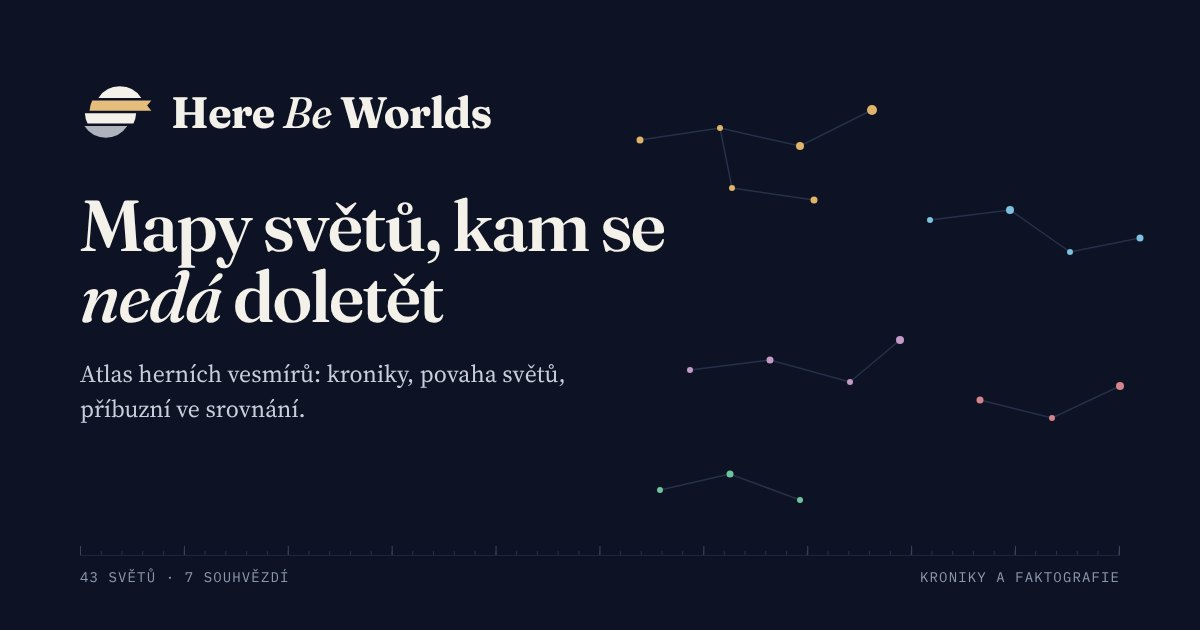
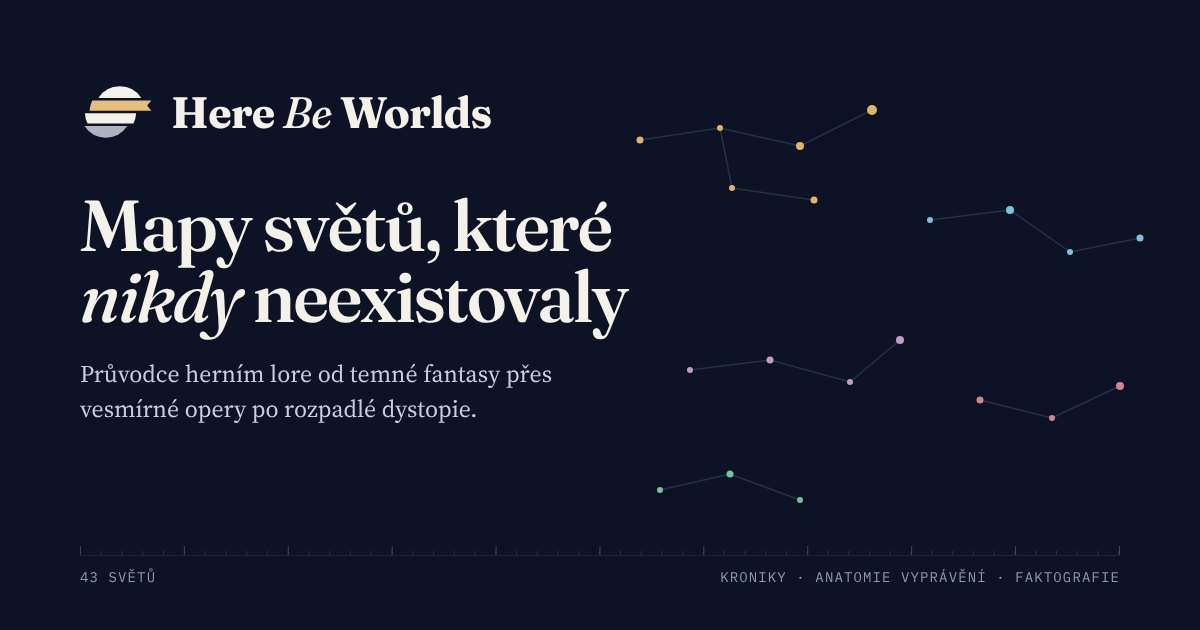
titulni strana: nove heslo a uvod, vic popsanych hvezd, patka bez zdroju
- heslo „Mapy světů, které nikdy neexistovaly“, nová úvodní věta (cs i en)
- v každém souhvězdí dva až tři popsané světy pod hvězdami, větší názvy souhvězdí
- z patičky pryč prázdný odkaz „Zdroje a kánon“
- obecná karta pro sdílení s novým heslem

Claude-Session: https://claude.ai/code/session_01B7obWPJG5ydjAhQo1XjBpq

diff --git a/src/components/discovery/HomeIntro.tsx b/src/components/discovery/HomeIntro.tsx
@@ -37,21 +37,33 @@ const SKY_NAME: Record<string, string> = {
   metaphysical: 'home2.skyMetaphysical',
 };
 
-/** Jedna trvale popsaná hvězda v každém souhvězdí. */
-const ICONIC: Record<string, string> = {
-  fantasy: 'dark-souls',
-  'science-fiction': 'mass-effect',
-  'post-apocalypse': 'fallout',
-  horror: 'silent-hill',
-  historical: 'disco-elysium',
-  dystopia: 'cyberpunk-2077',
-  metaphysical: 'outer-wilds',
+/**
+ * Trvale popsané hvězdy: světy, které čtenář pozná nejspíš (velká souhvězdí tři, malá dvě).
+ * Ostatní jména se ukážou po najetí na hvězdu nebo na název souhvězdí.
+ */
+const ICONIC: Record<string, string[]> = {
+  fantasy: ['the-witcher', 'dark-souls', 'elder-scrolls'],
+  'science-fiction': ['mass-effect', 'halo', 'starcraft'],
+  'post-apocalypse': ['fallout', 'metro'],
+  horror: ['silent-hill', 'resident-evil'],
+  historical: ['disco-elysium', 'assassins-creed'],
+  dystopia: ['cyberpunk-2077', 'bioshock'],
+  metaphysical: ['outer-wilds', 'control'],
 };
+
+/** Pozice popsaných hvězd v souhvězdí (cik-cak, aby jména pod hvězdami nesousedila). */
+function namedSlots(count: number, perRow: number, named: number): number[] {
+  const zigzag = [perRow - 1, perRow, 3 * perRow - 1, 2 * perRow + 1];
+  const slots = zigzag.filter((slot) => slot < count).slice(0, named);
+  if (slots.length < named && count > 0) {
+    for (let k = 0; k < count && slots.length < named; k += 2) if (!slots.includes(k)) slots.push(k);
+  }
+  return slots;
+}
 
 /*
  * Obloha v souřadnicích 1000 × H. Souhvězdí mají pevné počátky a 80jednotkový krok hvězd.
- * Popsaná hvězda stojí na konci první řady, vpravo od ní je volno až k dalšímu souhvězdí,
- * takže se popisky nepřekrývají. Ostatní názvy se ukážou po najetí myší nebo fokusu.
+ * Jména popsaných hvězd stojí pod hvězdou, stejně jako při rozsvíceném souhvězdí.
  * Při růstu atlasu: horní pás snese 4–5 řad (cca 15 světů v souhvězdí), pak upravit počátky.
  */
 const ORIGINS: Array<[number, number, number]> = [
@@ -77,18 +89,26 @@ function buildSky(worlds: World[], chapters: ChapterCardData[]) {
   let maxY = 0;
   chapters.forEach((chapter, gi) => {
     const [ox, oy, perRow] = ORIGINS[gi] ?? [20 + (gi % 3) * 330, 50 + Math.floor(gi / 3) * 240, 3];
-    let items = worlds.filter((w) => w.chapterId === chapter.id).sort((a, b) => a.number - b.number);
-    if (!items.length) return;
-    const iconic = items.find((w) => w.id === ICONIC[chapter.id]) ?? items[0];
-    items = items.filter((w) => w !== iconic);
-    items.splice(Math.min(perRow, items.length + 1) - 1, 0, iconic);
-    groups.push({ chapterId: chapter.id, x: ox, y: oy - 30, count: items.length });
+    const all = worlds.filter((w) => w.chapterId === chapter.id).sort((a, b) => a.number - b.number);
+    if (!all.length) return;
+    const wanted = (ICONIC[chapter.id] ?? [])
+      .map((id) => all.find((w) => w.id === id))
+      .filter((w): w is World => Boolean(w));
+    const slots = namedSlots(all.length, perRow, wanted.length);
+    const iconic = wanted.slice(0, slots.length);
+    const rest = all.filter((w) => !iconic.includes(w));
+    const items: World[] = [];
+    for (let k = 0, r = 0; k < all.length; k += 1) {
+      const slotIndex = slots.indexOf(k);
+      items.push(slotIndex >= 0 ? iconic[slotIndex] : rest[r++]);
+    }
+    groups.push({ chapterId: chapter.id, x: ox, y: oy - 44, count: all.length });
     let prev: [number, number] | null = null;
     items.forEach((w, k) => {
       const seed = gi * 13 + k * 7;
       const x = ox + (k % perRow) * STEP_X + ((seed * 37) % 9) - 4;
       const y = oy + Math.floor(k / perRow) * STEP_Y + ((seed * 53) % 13) - 6;
-      const named = w === iconic;
+      const named = iconic.includes(w);
       stars.push({ id: w.id, title: w.gameTitle.cs ?? w.gameTitle.en, named, x, y, size: named ? 10 : [4, 6, 7][(seed * 17) % 3], chapterId: chapter.id });
       if (prev) {
         const dx = x - prev[0];

diff --git a/src/lib/i18n.ts b/src/lib/i18n.ts
@@ -27,8 +27,8 @@ export const ui: Record<Locale, UiTree> = {
     },
     home2: {
       kicker: '{n} · kroniky · anatomie vyprávění · faktografie',
-      title: 'Mapy světů, kam se |nedá| doletět',
-      lead: 'Průvodce herním lore pro ty, kterým nestačí „prostě fantasy“. Ke každému světu zmapované dějiny, rozbor vyprávění a profil, podle kterého ho porovnáš s kterýmkoli jiným.',
+      title: 'Mapy světů, které |nikdy| neexistovaly',
+      lead: 'Průvodce herním lore od temné fantasy přes vesmírné opery po rozpadlé dystopie. U každého probádaného světa najdeš dějiny od prvotního hříchu, skrytou strukturu vyprávění i to, co různé vesmíry spojuje.',
       openAtlas: 'Otevřít atlas',
       random: 'Náhodný svět',
       skyAria: 'Obloha světů: každá hvězda je jeden svět, souhvězdí jsou archetypy',
@@ -394,8 +394,8 @@ Berte prosím tento atlas jako skromnou poctu všem scenáristům, designérům 
     },
     home2: {
       kicker: '{n} · chronicles · narrative anatomy · factography',
-      title: 'Maps of worlds |beyond| reach',
-      lead: 'A guide to game lore for anyone who isn’t satisfied with “just fantasy”. For every world, a mapped history, a reading of how it tells its story and a profile to set it against any other.',
+      title: 'Maps of worlds that |never| existed',
+      lead: 'A guide to game lore, from dark fantasy through space operas to crumbling dystopias. For every world we explore you’ll find its history from the original sin, the hidden structure of its storytelling and what connects it to other universes.',
       openAtlas: 'Open the atlas',
       random: 'Random world',
       skyAria: 'Sky of worlds: every star is one world, constellations are archetypes',

diff --git a/src/components/i18n/SiteFooter.tsx b/src/components/i18n/SiteFooter.tsx
@@ -13,18 +13,6 @@ const FOOTER_CHAPTER_COLUMNS = [
   ['historical', 'dystopia', 'metaphysical'],
 ] as const;
 
-function Placeholder({ children }: { children: string }) {
-  return (
-    <a
-      href="#footer"
-      className="site-footer__link site-footer__link--soon"
-      onClick={(e) => e.preventDefault()}
-    >
-      {children}
-    </a>
-  );
-}
-
 export default function SiteFooter({ base }: Props) {
   const locale = useLocale();
 
@@ -82,7 +70,6 @@ export default function SiteFooter({ base }: Props) {
           <a className="site-footer__link" href={withBase(base, '/anatomie-herniho-lore/')}>
             {uiT('footer.essay', locale)}
           </a>
-          <Placeholder>{uiT('footer.sources', locale)}</Placeholder>
           <a className="site-footer__link" href={withBase(base, '/contact/')}>
             {uiT('footer.contact', locale)}
           </a>

diff --git a/src/styles/home-page.css b/src/styles/home-page.css
@@ -200,7 +200,7 @@
   padding: 0.3rem 0.5rem 0.3rem 0;
   transform: translateY(-0.3rem);
   font-family: var(--font-mono);
-  font-size: 0.75rem;
+  font-size: 0.875rem;
   font-weight: 500;
   letter-spacing: 0.14em;
   text-transform: uppercase;
@@ -284,10 +284,6 @@
   transition: opacity 0.15s ease;
 }
 
-.hp-star.is-named .hp-star__name {
-  opacity: 1;
-  background: transparent;
-}
 
 .hp-star:hover,
 .hp-star:focus-visible {
@@ -311,7 +307,8 @@
   text-underline-offset: 0.2em;
 }
 
-/* Rozsvícené souhvězdí: jména všech světů pod hvězdami, aby se nepřekrývala se sousedy. */
+/* Popsané hvězdy a rozsvícené souhvězdí: jména pod hvězdami, aby se nepřekrývala se sousedy. */
+.hp-star.is-named .hp-star__name,
 .hp-star.is-lit .hp-star__name {
   position: absolute;
   top: calc(var(--s) + 0.35rem);

diff --git a/CLAUDE.md b/CLAUDE.md
@@ -12,7 +12,7 @@ Tento soubor je zdroj pravdy pro AI. Interní identifikátory v kódu se nepřek
 - **Jazyk:** `cs` výchozí, `en` sekundární. UI řetězce: `src/lib/i18n.ts` (`uiT`). Obsah světů: `{ en, cs? }` v JSON (`t()`). Kroniky: české markdown.
 - **Estetika (finální styl „noční atlas“, 2026-11):** light = teplý papír `#F4F2EE` a tuš, dark = noční modř `#0D1324`; hlavička, noční pás titulní strany a patička jsou vždy noční. Jeden ultramarínový akcent (`--color-accent`, dark `#9DB0FF`) pro odkazy a akce, leží mimo barvy archetypů. Barva archetypu (light/dark z `chapters.json`, v CSS `--hue`) jen pro záložky, silné linky, profil os a štítky. Písma: **Fraunces** (nadpisy, názvy světů, jádra, citáty; `--font-display`), **Source Serif 4** (dlouhé texty; `--font-text`), **Public Sans** (rozhraní; `--font-sans`), **IBM Plex Mono** (štítky a čísla; `--font-mono`). Bez zaoblených „pilulek“ a stínových rámů; oddíly dělí linky a vzduch. Motiv řídí systém čtenáře, dokud si nevybere sám (`hbw_theme`). Žádný herní UI jazyk.
 - **Znak a nápis:** kotouč světa rozložený na čtyři vodorovné vrstvy rozjeté do schodů (vyprávění, historie, klasifikace, mapa); sklon / stejný jako kurzíva „Be“ (`src/components/i18n/BrandMark.tsx`, cesty `MARK_PATHS`, výřez `MARK_VIEWBOX` 4 : 3, `size` = výška). Vrstvy shora: bílá `--mark-light` `#F4F1EA`, zlatá rozsvícená `--mark-glow` `#E5BE7E`, bílá, šedý stín `--mark-shade` `#AEB3BE`. Zlatá vrstva je druhá shora (nikdy nahoře jako čepička), vysunutá doprava za kotouč a zakončená vykrojením jako štítek; přesah jen na jednu stranu (souměrný pruh přes kotouč = londýnské metro). Nápis `Wordmark`: Fraunces 700, „Be“ kurzívou 500. Na webu je rozsvícená vrstva **vždy zlatá**; barvu archetypu nese jen na kartách světů pro sdílení. Ikony: `public/favicon.svg` (znak v nočním čtverci, rx 14), `favicon.ico` (16/32/48), `apple-touch-icon.png` (180 px).
-- **Karty pro sdílení (Open Graph 1200 × 630):** `public/og/site.jpg` (noční, obloha, „Mapy světů, kam se *nedá* doletět“) a `public/og/worlds/<id>.jpg` (papír, záložka žánru v barvě archetypu, vpravo nahoře jen název archetypu; slovo „Spis“ na kartách nepoužívat). Generuje `npm run og` (`scripts/og-images.mjs`, potřebuje Playwright s Chromiem) a **commitují se**; písma bere z Google Fonts — kde nejsou dostupná (cloud), podstrč `HBW_OG_FONT_CSS` s @font-face z `@fontsource-variable/fraunces` (soubory **full**, jinak kurzíva dostane „wonky“ tvary), `@fontsource-variable/source-serif-4` (opsz) a `@fontsource/ibm-plex-mono` a výsledek porovnej se starou kartou; při buildu se negenerují. Po přidání či úpravě světa spusť `npm run og` — test `src/lib/og-cards.test.ts` hlídá, že žádný publikovaný svět nemá kartu chybějící. `BaseLayout` bere `ogImage` (výchozí `/og/site.jpg`, drafty ji dostanou také) a skládá absolutní URL z `site` (`HBW_SITE`, default `https://lucrecius04.github.io`).
+- **Karty pro sdílení (Open Graph 1200 × 630):** `public/og/site.jpg` (noční, obloha, „Mapy světů, které *nikdy* neexistovaly“) a `public/og/worlds/<id>.jpg` (papír, záložka žánru v barvě archetypu, vpravo nahoře jen název archetypu; slovo „Spis“ na kartách nepoužívat). Generuje `npm run og` (`scripts/og-images.mjs`, potřebuje Playwright s Chromiem) a **commitují se**; písma bere z Google Fonts — kde nejsou dostupná (cloud), podstrč `HBW_OG_FONT_CSS` s @font-face z `@fontsource-variable/fraunces` (soubory **full**, jinak kurzíva dostane „wonky“ tvary), `@fontsource-variable/source-serif-4` (opsz) a `@fontsource/ibm-plex-mono` a výsledek porovnej se starou kartou; při buildu se negenerují. Po přidání či úpravě světa spusť `npm run og` — test `src/lib/og-cards.test.ts` hlídá, že žádný publikovaný svět nemá kartu chybějící. `BaseLayout` bere `ogImage` (výchozí `/og/site.jpg`, drafty ji dostanou také) a skládá absolutní URL z `site` (`HBW_SITE`, default `https://lucrecius04.github.io`).
 - **Stack:** Astro 7 + React islands (`client:load`), statický export. Node ≥ 20.
 - **GitHub Pages:** `astro.config.mjs` `base` = `HBW_BASE` (default `/Here-Be-Worlds`). Interní odkazy **vždy** `withBase()` z `src/lib/base-url.ts`.
 - **Vizuál:** používej CSS proměnné v `src/styles/tokens.css` (`--color-accent`, `--color-paper`, `--color-line`, …). Do obecného UI nehardcoduj cizí hex. Slotové barvy srovnávače žijí jen ve `src/lib/compare.ts` / `compare.css`.
@@ -63,7 +63,7 @@ Kroniky a eseje **nejsou** v `data/`.
 
 | Routa | Soubor | Hlavní komponenty |
 |---|---|---|
-| `/` | `src/pages/index.astro` | `HomeIntro` — noční pás s oblohou 43 hvězd (7 souhvězdí = archetypy; v každém trvale popsaná jedna nejznámější hvězda `ICONIC`, ostatní po najetí; najetí na název souhvězdí rozsvítí jména všech jeho světů a ztlumí ostatní, klik skočí na `#rejstrik-<id>`; na úzkém/dotykovém displeji obloha bez jmen a pod ní řádek archetypů do rejstříku; dole jemné měřítko a „Nově zmapováno“). Hlavička na titulní straně splývá s nocí, po posunu ji oddělí linka (`is-scrolled` v `SiteHeader`). `ReaderDesk` (jen jeden řádek s rozečtenou kronikou), **Svět dne** (archetyp · profil archetypu, pruh os) + **Hádanka dne** (`DailyMystery`), Rejstřík světů (záložka „Archetyp · počet“ je odkaz na archetyp, `id=rejstrik-<id>`), kompas „Který svět je tvůj?“ (`WorldCompass alwaysOpen`), Tři cesty, esej + stezky. Svět dne i hádanka se skládají samy z dat (`calendar.ts`): promíchané pořadí po cyklech (`featuredWorldIndex`), hádanka je o půl cyklu posunutá (`mysteryWorldIndex`), takže se se Světem dne nepotká; jedna špatná odpověď je ze stejného archetypu. Po odpovědi: správná zelený rámeček a ✓, zvolená špatná červený rámeček, přeškrtnutí a ✗ (`--color-right` / `--color-wrong`), všechny tři možnosti jsou odkazy. Staré odkazy `/?theme=` a `/?trail=` přesměruje do `/atlas/`. |
+| `/` | `src/pages/index.astro` | `HomeIntro` — noční pás s oblohou 43 hvězd (7 souhvězdí = archetypy; v každém trvale popsané nejznámější světy `ICONIC` (velká souhvězdí tři, malá dvě, jména pod hvězdou, rozmístěné cik-cak), ostatní po najetí; najetí na název souhvězdí rozsvítí jména všech jeho světů a ztlumí ostatní, klik skočí na `#rejstrik-<id>`; na úzkém/dotykovém displeji obloha bez jmen a pod ní řádek archetypů do rejstříku; dole jemné měřítko a „Nově zmapováno“). Hlavička na titulní straně splývá s nocí, po posunu ji oddělí linka (`is-scrolled` v `SiteHeader`). `ReaderDesk` (jen jeden řádek s rozečtenou kronikou), **Svět dne** (archetyp · profil archetypu, pruh os) + **Hádanka dne** (`DailyMystery`), Rejstřík světů (záložka „Archetyp · počet“ je odkaz na archetyp, `id=rejstrik-<id>`), kompas „Který svět je tvůj?“ (`WorldCompass alwaysOpen`), Tři cesty, esej + stezky. Svět dne i hádanka se skládají samy z dat (`calendar.ts`): promíchané pořadí po cyklech (`featuredWorldIndex`), hádanka je o půl cyklu posunutá (`mysteryWorldIndex`), takže se se Světem dne nepotká; jedna špatná odpověď je ze stejného archetypu. Po odpovědi: správná zelený rámeček a ✓, zvolená špatná červený rámeček, přeškrtnutí a ✗ (`--color-right` / `--color-wrong`), všechny tři možnosti jsou odkazy. Staré odkazy `/?theme=` a `/?trail=` přesměruje do `/atlas/`. |
 | `/atlas/` | `src/pages/atlas/index.astro` | `AtlasExplorer` (katalog, filtry, stezky, kompas); čte `?theme=` a `?trail=` |
 | `/compare/` | `src/pages/compare/index.astro` | `ComparePage` + `AxisOverlay` |
 | `/map/` | `src/pages/map/index.astro` | `AxisGridMap` — Kartografie os (mřížka 5 × 5, bez výpočtu příbuznosti) |
